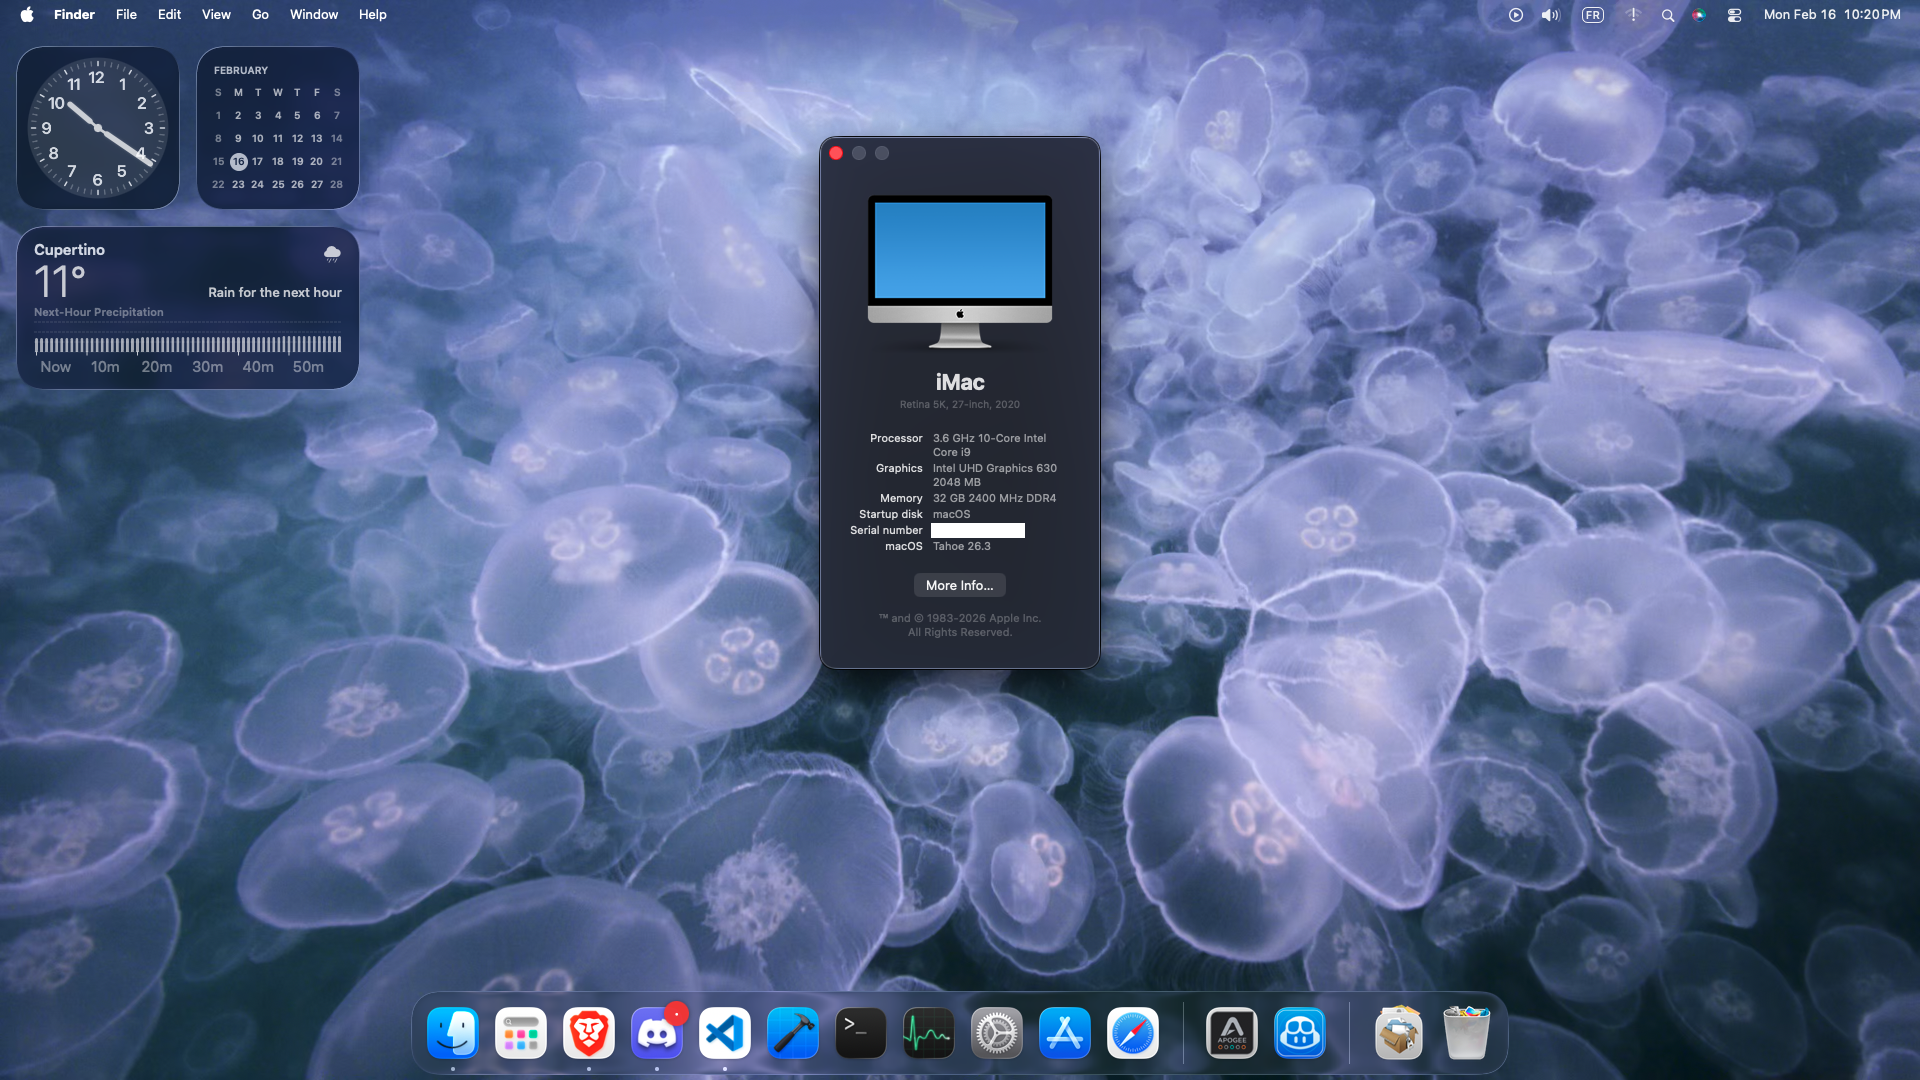
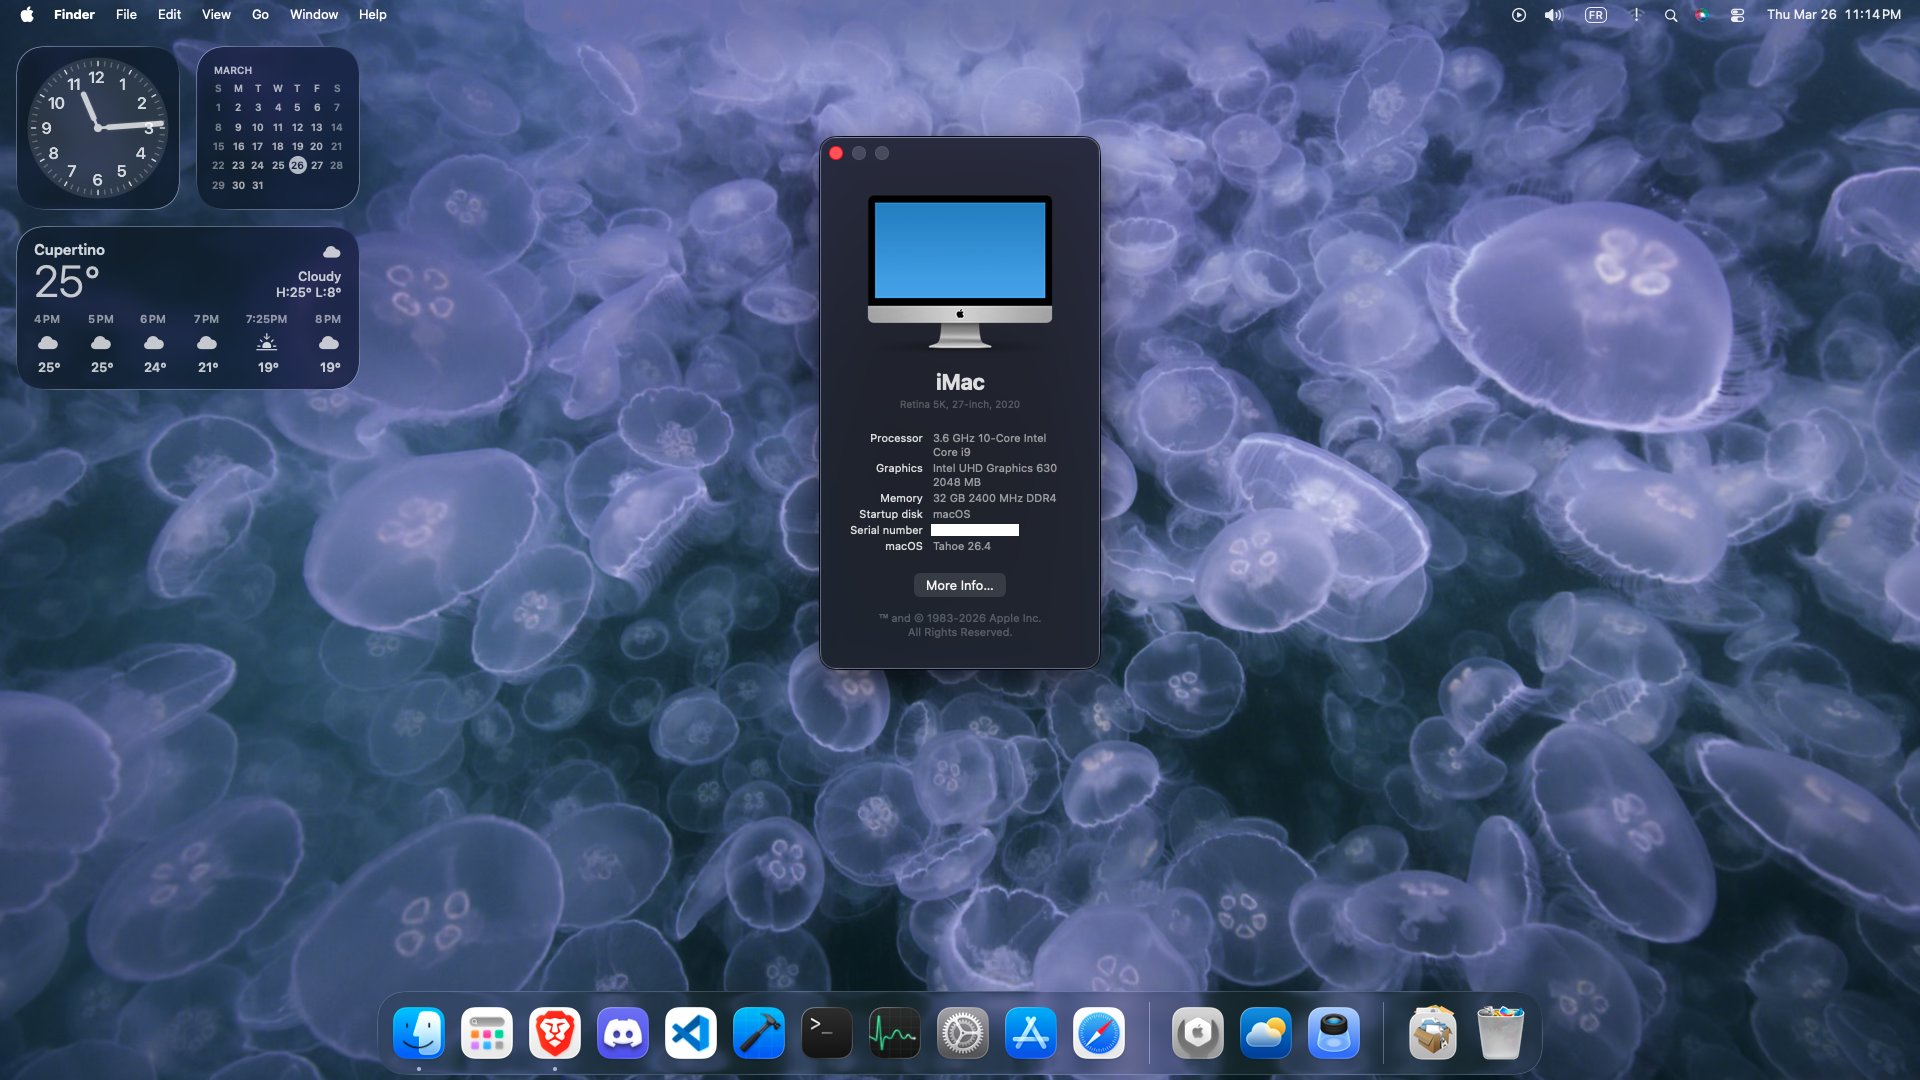
updated to macOS 26.4

diff --git a/README.md b/README.md
@@ -1,6 +1,6 @@
 # OpenCore Asus Proart Z490 Creator 10G 
 
-Using macOS Tahoe 26.3, OpenCore 1.0.6
+Using macOS Tahoe 26.4, OpenCore 1.0.6
 
 ![Screenshot](Resources/image.png)
 
@@ -35,7 +35,7 @@ Using macOS Tahoe 26.3, OpenCore 1.0.6
 - [x] **Sleep/Wake**: using iGPU only
 - [x] **Shutdown/Restart**: fixed BIOS reset or sent into Safemode after reboot/shutdown
 - [x] **Bluetooth**: USB Bluetooth dongle TP-Link UB400
-- [x] **Updates**: From Sequoia 15.5 to Tahoe 26.3
+- [x] **Updates**: From Sequoia 15.5 to Tahoe 26.4
 - [x] **Apple Secure Boot**: 
     - ApECID is generated
     - `nvram 94b73556-2197-4702-82a8-3e1337dafbfb:AppleSecureBootPolicy` returns `%02`
